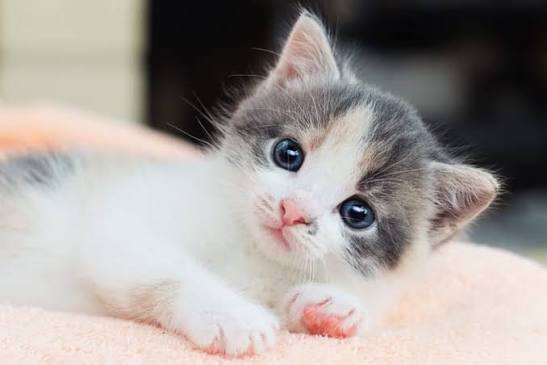
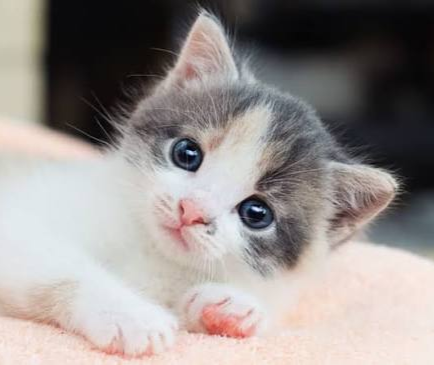
I added a cursor-grab to pictures

diff --git a/index.html b/index.html
@@ -9,30 +9,30 @@
 <body class="bg-gradient-to-b from-gray-950 py-10 px-4 via-slate-900 to-gray-950 text-white text-center">
 <h1 class="text-white font-bold text-3xl mb-4">About Fahd</h1>
 <p class="my-6">I'm a 17 year old student in STEM schools, here is a picture of my school:</p>
-<img src="school.jpg" class="w-80 mx-auto rounded-lg mb-16">
+<img src="school.jpg" class="w-80 mx-auto cursor-grab rounded-lg mb-16">
 <p class="mb-8 font-bold text-2xl"> I want to share my PC with you☺</p>
 <div class="flex justify-center gap-6">
     <div>
     <p class="font-bold"> Here is a picture of my PC:</p>
-<img src="pc.jpg" alt="my PC" class="w-96 mx-auto rounded-lg -mt-8">
+<img src="pc.jpg" alt="my PC" class="w-96 cursor-grab rounded-lg -mt-8">
 </div>
 <div>
 <h1 class="font-bold">Here are the specs: </h1>
-<img src="spec.png" alt="PC specs" class="w-80 mx-auto mt-4 my-16 rounded-lg">
+<img src="spec.png" alt="PC specs" class="w-80 cursor-grab mt-4 my-16 rounded-lg">
 </div>
 </div>
 <p class="mb-4 font-bold text-2xl mt-6"> Here is my favorite game:</p>
-<img src="sekiro.png" alt="Sekiro" class="w-96 mx-auto rounded-lg shadow-lg my-16">
+<img src="sekiro.png" alt="Sekiro" class="w-96 cursor-grab mx-auto rounded-lg shadow-lg my-16">
 <p class="font-bold mb-8 text-2xl"> I want to get a Soundcore Q20i because my current headphones are terrible🙁</p>
-<p class="text-yellow-500 font-bold"> Here is a small comparison between my current headphone and Q20I:</p>
-<img src="hea.png" class="mx-auto w-96 rounded-lg mb-8">
+<p class="text-yellow-500 font-bold mb-8"> Here is a small comparison between my current headphone and Q20I:</p>
+<img src="hea.png" class="mx-auto cursor-grab w-96 rounded-lg mb-8">
 <p class="text-green-500 font-bold mb-4 text-xl"> I have taken the DET earlier, and I want to share my score with you!</p>
-<img src="det.png" class="mx-auto w-80 mb-4 rounded-lg">
+<img src="det.png" class="mx-auto w-80 mb-4 cursor-grab rounded-lg">
 <p class="mb-8"> here is the link to my certificate: <a href="https://certs.duolingo.com/s5rihld5z5n05joq" class="text-blue-500 font-bold">Click here</a></p>
 <p class="text-white font-bold mb-16 text-xl"> My favorite animal is the cat!. Kittens are adorable🥺😻</p>
 <div class="flex justify-center gap-64 mb-8">
-<img src="cat.jpg" class="w-64 h-64 rounded-full shadow-lg mb-32">
-<img src="catoto.png" class="w-64 h-64 rounded-full shadow-lg mb-32">
+<img src="cat.jpg" class="w-64 h-64 rounded-full shadow-lg mb-32 cursor-grab">
+<img src="catoto.png" class="w-64 h-64 rounded-full shadow-lg mb-32 cursor-grab">
 </div>
 <h1 class="text-white font-bold text-2xl"> Here are some of my projects:</h1>
 </body>
